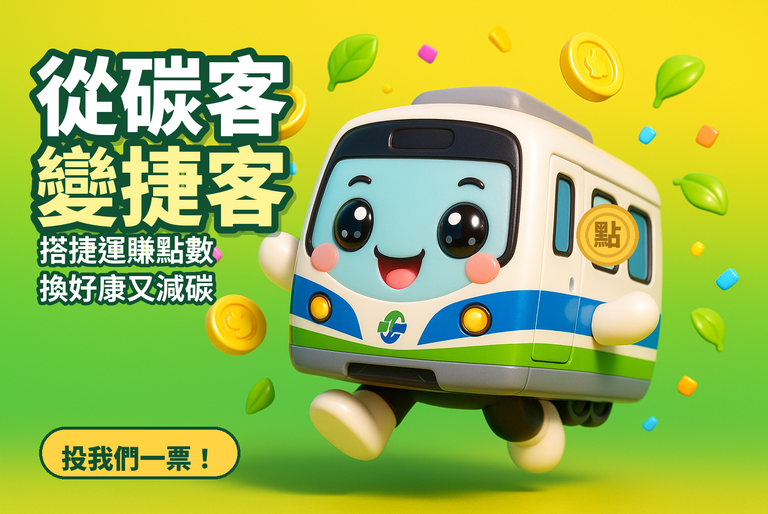
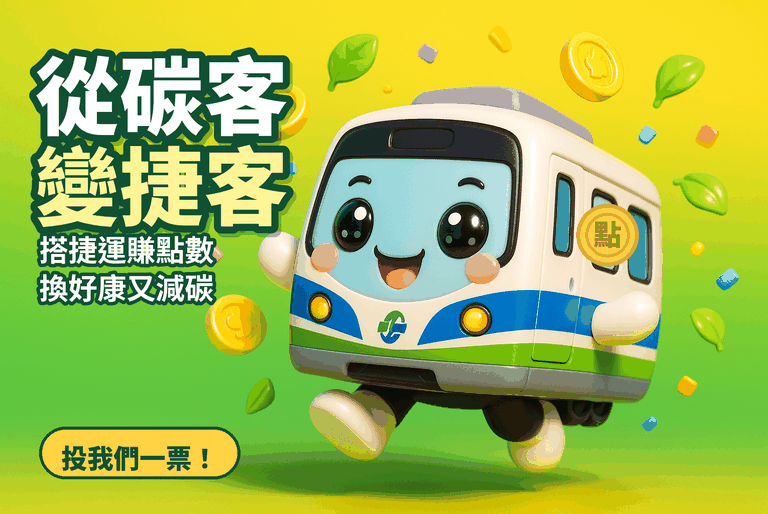
perf: replace
by Sofia Yan & Omni

diff --git a/.omni/78ecb4fc-untitled/memory.md b/.omni/78ecb4fc-untitled/memory.md
@@ -22,16 +22,16 @@
 
 ## Key Discoveries
 
-- 線上投票提交草稿在 `personal-auto/online-voting-submission.md`；2026-07-27 依 Sofia 回饋「不夠吸睛」全面重製為 v2 三版：v2-A 3D 吉祥物、v2-B 普普爆點海報、v2-C 電影感實景（檔名 `vote-submit-v2-*-768x514.png`），底圖用 gpt-image-1 生成、繁中文字以 Noto Sans TC 程式合成避免 AI 錯字；建議主投 v2-A。2026-07-27 已將 Cloudflare Pages `https://from-carbon-metro-vote.pages.dev/` 改成 v2-A 風格民眾投票展示頁，互動 prototype 在同站內 `/demo/`；公開 URL、手機 UA、主圖 PNG、agent-readiness 檔與 demo smoke test 均通過。GitHub Pages production 仍是舊版，`from-carbon-to-metro` 本地分支 ahead，且 GitHub API 認證回 401。
-- 2026-07-27 Prototype 已補齊決賽提案 v2 / 工作坊討論的五項核心缺口：104/75/29 可配置碳係數、3 題 opt-in 偏好 onboarding、完成通勤後出站推播、U-Sport/U-Walk/YouBike 健康共享生活圈任務，以及北捷/合作方 dashboard（觸及、導客、招商加值、換券、核銷、健康共享任務）；GitHub Pages production 仍因 GitHub API 401 未更新，但線上投票展示備援已部署至 Cloudflare Pages `https://from-carbon-metro-vote.pages.dev/` 並通過公開 URL browser smoke test。
+- 線上投票提交草稿在 `personal-auto/online-voting-submission.md`；2026-07-27 依 Sofia 回饋「不夠吸睛」全面重製為 v2 三版：v2-A 3D 吉祥物、v2-B 普普爆點海報、v2-C 電影感實景（檔名 `vote-submit-v2-*-768x514.png`），底圖用 gpt-image-1 生成、繁中文字以 Noto Sans TC 程式合成避免 AI 錯字；建議主投 v2-A。2026-07-27 已將 Cloudflare Pages `https://from-carbon-metro-vote.pages.dev/` 改成 v2-A 風格民眾投票展示頁，互動 prototype 在同站內 `/demo/`；已全面地毯式清除展示頁的內部/開發開發人員語言。為提升首頁首屏加載速度，已將主圖優化為 50.8 KB WebP（縮減 90%）並採用 WebP 預載，且 PNG 備份也壓縮至 123.8 KB。公開 URL、手機 UA、優化後主圖、agent-readiness 檔、離線備援包與 demo smoke test 均通過。GitHub Pages production 仍是舊版，`from-carbon-to-metro` 本地分支 ahead，且 GitHub API 認證回 401。
 - Prototype 核心與終端術語升級：地毯式清除「綠點／綠章」舊詞彙，全面統一為「捷運點／捷運章」與決賽提案一致。實作「捷運點與減碳排雙向聯動機制」，完成情境任務（如借傘、補電、時租會議亭、蛋糕補給）能同步累積減碳量並動態觸發乘數倍率 Level Up 特效；並針對花點（點數消耗）需求，全新實作「已選推薦店家詳情與花點兌換（App 換券）」與「我的票券夾（Me Tab Wallet）」，直接可在手機中模擬扣點換券、出示核銷條碼，展示 earn-to-spend 完整永續商業閉環。
-- 決賽提案 v2 Google Doc：`1wIR6SyXYyqJVXteGhcC-kcH68appxkIu30gKcIYjg8g`（工作坊調整版，v1→v2 對照表在文件開頭）。決賽簡報初稿 Google Slides：`1_MIRSbXIKBMvQkZTQPgr2GkFS6UrxYYh1440pvbjUEc`（15 頁，以 GWS DWD 用 Sofia 身份建立，可由 Slides 直接下載 .pptx）。
+- 2026-07-27 Prototype 已補齊決賽提案 v2 / 工作坊討論的五項核心缺口：104/75/29 可配置碳係數、3 題 opt-in 偏好 onboarding、完成通勤後出站推播、U-Sport/U-Walk/YouBike 健康共享生活圈任務，以及北捷/合作方 dashboard（觸及、導客、招商加值、換券、核銷、健康共享任務）；GitHub Pages production 仍因 GitHub API 401 未更新，但線上投票展示備援已部署至 Cloudflare Pages `https://from-carbon-metro-vote.pages.dev/` 並通過公開 URL browser smoke test。
+- `from-carbon-to-metro/index.html` 的 bundler template script 需將 raw JSON 內的 literal `<` 序列化為 `\u003c`；DC runtime 會 `fetch(location.href)` 並用 regex 搜 `<x-dc>`，若外層 bundle raw script 留有 literal `<x-dc>`，會誤解析 JSON 字串內的 template，導致 React `onClick` 收到 string 並在點擊時出現 `[bundle] Script error`。
+- 捷運盃黑客松工作坊簡報已建立於 `personal-auto/workshop-presentation.html`，內容依 Google Doc 提案「從碳客變捷客」整理；使用 `assets/fonts/NotoSansCJKtc-Workshop.woff2` 子集字型確保繁中離線顯示。
+- 共享經濟／健康減碳方向提案已整理為台北捷運審閱版 `personal-auto/metro-shared-health-proposal.html`；定位為「捷運健康共享生活圈」，以捷運點承接 U-Sport／U-Walk、YouBike、raingo、旅電／ChargeSPOT、亞尼克 YTM 與悠遊付第二階段合作場景，已新增 ESG 敘事與首年財務試算（基準：合作金流 2,270 萬、支出 1,525 萬、可支應營運餘額 745 萬，待北捷確認）；文案已移除 v3／新版比較語氣；同檔使用 `assets/fonts/NotoSansCJKtc-MetroShared-*.woff2` 子集字型避免繁中缺字。
 - 點數商業模式研究報告已建立於 `personal-auto/points-business-model-report.html`：涵蓋 OPENPOINT、Hami Point、LINE POINTS、台灣星巴克、Rakuten、Marriott Bonvoy，以及 IFRS 15／點數負債與 breakage 風險；可作為捷運提案與 prototype 的研究底稿。
 - 北捷站內即時補給與空間租賃公開案例可分為甜點／餐飲自助機（亞尼克 YTM、Yo-Kai）、補電（旅電、ChargeSPOT 及充電線）、共享傘（raingo）、香氛試香機（TRICENT）、客製悠遊卡、珠寶禮品、手機線材／配件、智慧生活站、快閃櫃、快剪與小樹屋電話亭等；可包成「租賃廠商可被 Go App 推播／Go!Map 標記／捷運點券導客」的招商加值，但租賃點位自有行銷與第三方廣告需依北捷審查邊界標示。
-- 捷運盃黑客松工作坊簡報已建立於 `personal-auto/workshop-presentation.html`，內容依 Google Doc 提案「從碳客變捷客」整理；使用 `assets/fonts/NotoSansCJKtc-Workshop.woff2` 子集字型確保繁中離線顯示。
+- 決賽提案 v2 Google Doc：`1wIR6SyXYyqJVXteGhcC-kcH68appxkIu30gKcIYjg8g`（工作坊調整版，v1→v2 對照表在文件開頭）。決賽簡報初稿 Google Slides：`1_MIRSbXIKBMvQkZTQPgr2GkFS6UrxYYh1440pvbjUEc`（15 頁，以 GWS DWD 用 Sofia 身份建立，可由 Slides 直接下載 .pptx）。
 - 原版企劃書 `personal-auto/2026捷運盃黑客松_提案企劃書_綠點導航.docx` 的 ESG 內容集中在「綠點導航／碳足跡回饋／國泰世華 ESG 聯名／全市減碳量」；決賽口徑宜改掛到 AI 站點情境助理、捷運點減碳加成與北捷可衡量站點導客。
-- `from-carbon-to-metro/index.html` 的 bundler template script 需將 raw JSON 內的 literal `<` 序列化為 `\u003c`；DC runtime 會 `fetch(location.href)` 並用 regex 搜 `<x-dc>`，若外層 bundle raw script 留有 literal `<x-dc>`，會誤解析 JSON 字串內的 template，導致 React `onClick` 收到 string 並在點擊時出現 `[bundle] Script error`。
-- 共享經濟／健康減碳方向提案已整理為台北捷運審閱版 `personal-auto/metro-shared-health-proposal.html`；定位為「捷運健康共享生活圈」，以捷運點承接 U-Sport／U-Walk、YouBike、raingo、旅電／ChargeSPOT、亞尼克 YTM 與悠遊付第二階段合作場景，已新增 ESG 敘事與首年財務試算（基準：合作金流 2,270 萬、支出 1,525 萬、可支應營運餘額 745 萬，待北捷確認）；文案已移除 v3／新版比較語氣；同檔使用 `assets/fonts/NotoSansCJKtc-MetroShared-*.woff2` 子集字型避免繁中缺字。
 - 捷運盃工作坊與後續點數討論整理於 `personal-auto/workshop-discussion-notes.md`；核心 pivot 是從「泛綠點」收斂為「捷運點減碳加成 + 精準推播導客 + 北捷可變現行銷方案」，並需改用北捷口述碳係數 104/75/29（待正式確認）。
 
 ## Installed Skills
@@ -71,4 +71,4 @@
 
 
 ---
-_Last system refresh: 2026-07-27 07:40 UTC_
+_Last system refresh: 2026-07-27 09:15 UTC_
